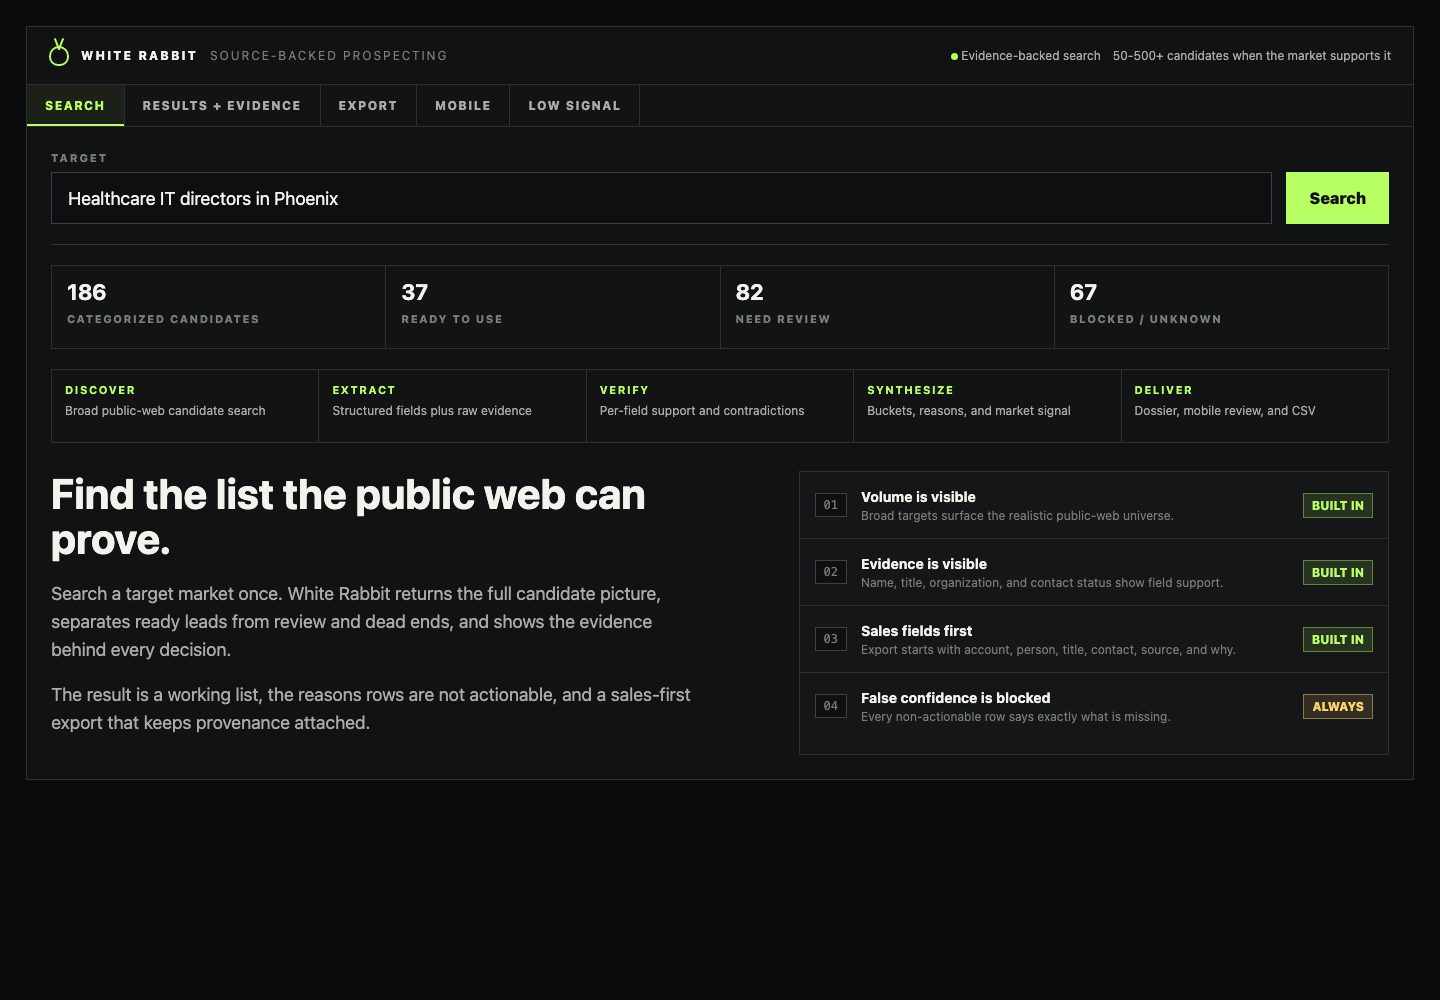
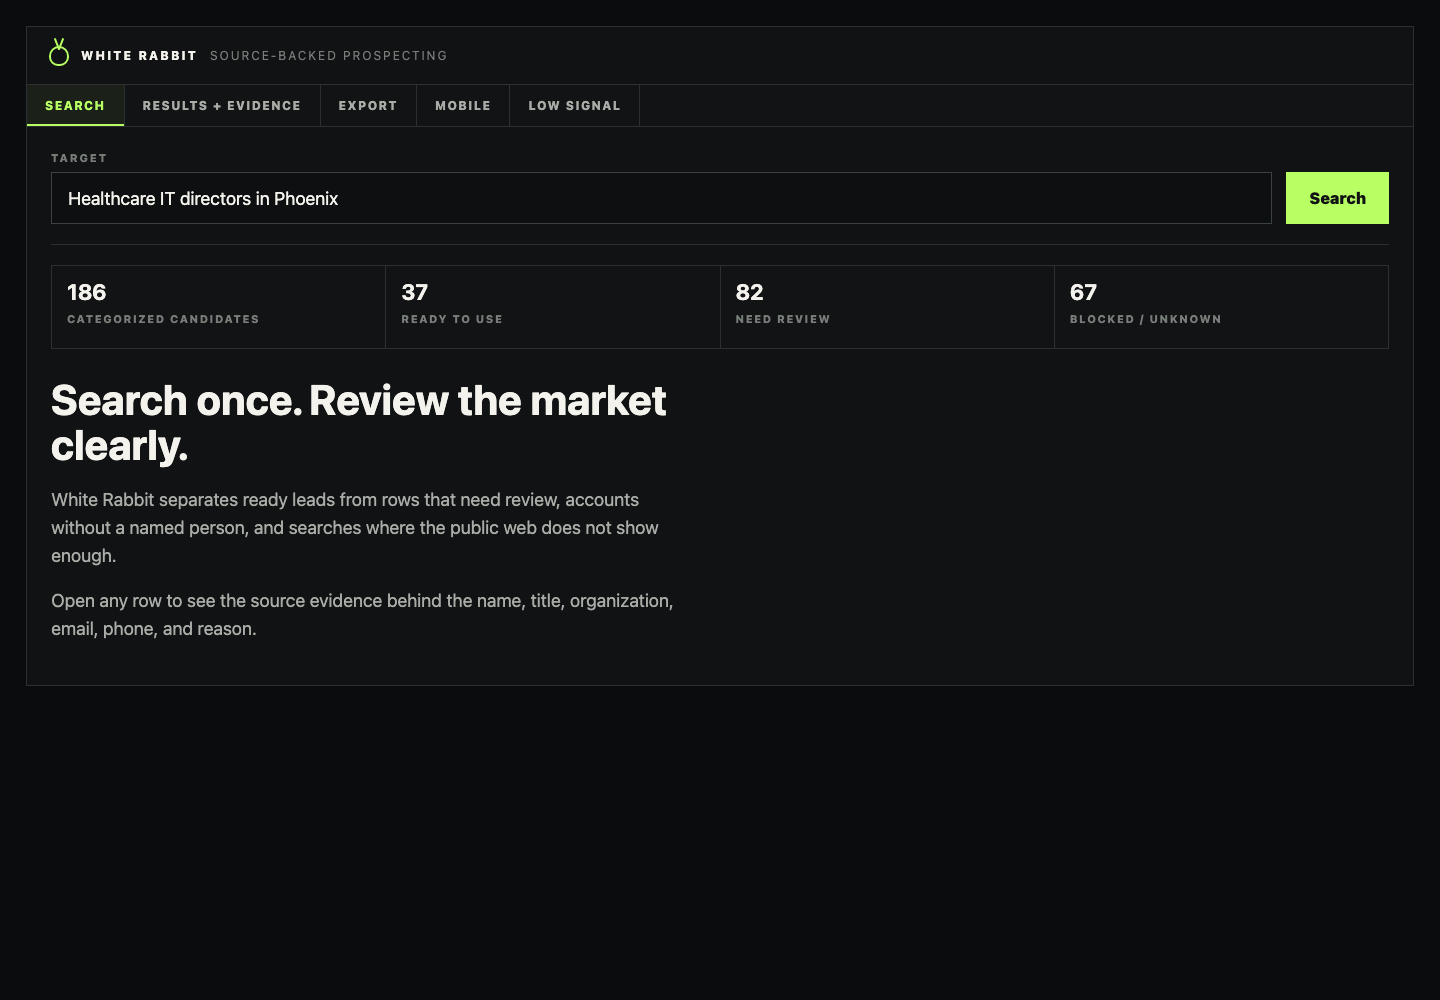
docs(mockup): tighten live demo copy

diff --git a/docs/mockups/final-product-2026-05-10/index.html b/docs/mockups/final-product-2026-05-10/index.html
@@ -965,10 +965,6 @@
             <span class="brand-title">White Rabbit</span>
             <span class="brand-subtitle">source-backed prospecting</span>
           </div>
-          <div class="top-meta">
-            <span><span class="status-dot" aria-hidden="true"></span> Evidence-backed search</span>
-            <span>50-500+ candidates when the market supports it</span>
-          </div>
         </header>
 
         <nav class="tabs" aria-label="Mockup screens">
@@ -996,48 +992,18 @@
               <div class="metric"><strong>67</strong><span>Blocked / unknown</span></div>
             </div>
 
-            <div class="pipeline-strip" aria-label="Pipeline flow">
-              <div class="pipeline-step"><strong>Discover</strong><span>Broad public-web candidate search</span></div>
-              <div class="pipeline-step"><strong>Extract</strong><span>Structured fields plus raw evidence</span></div>
-              <div class="pipeline-step"><strong>Verify</strong><span>Per-field support and contradictions</span></div>
-              <div class="pipeline-step"><strong>Synthesize</strong><span>Buckets, reasons, and market signal</span></div>
-              <div class="pipeline-step"><strong>Deliver</strong><span>Dossier, mobile review, and CSV</span></div>
-            </div>
-
             <div class="search-empty">
               <div class="copy-block">
-                <h1>Find the list the public web can prove.</h1>
+                <h1>Search once. Review the market clearly.</h1>
                 <p>
-                  Search a target market once. White Rabbit returns the full candidate picture, separates
-                  ready leads from review and dead ends, and shows the evidence behind every decision.
+                  White Rabbit separates ready leads from rows that need review, accounts without a named
+                  person, and searches where the public web does not show enough.
                 </p>
                 <p>
-                  The result is a working list, the reasons rows are not actionable, and a sales-first export
-                  that keeps provenance attached.
+                  Open any row to see the source evidence behind the name, title, organization, email, phone,
+                  and reason.
                 </p>
               </div>
-              <aside class="reference-list" aria-label="Product principles">
-                <div class="reference-row">
-                  <span class="kbd">01</span>
-                  <div><strong>Volume is visible</strong><br /><span>Broad targets surface the realistic public-web universe.</span></div>
-                  <span class="pill ready">Built in</span>
-                </div>
-                <div class="reference-row">
-                  <span class="kbd">02</span>
-                  <div><strong>Evidence is visible</strong><br /><span>Name, title, organization, and contact status show field support.</span></div>
-                  <span class="pill ready">Built in</span>
-                </div>
-                <div class="reference-row">
-                  <span class="kbd">03</span>
-                  <div><strong>Sales fields first</strong><br /><span>Export starts with account, person, title, contact, source, and why.</span></div>
-                  <span class="pill ready">Built in</span>
-                </div>
-                <div class="reference-row">
-                  <span class="kbd">04</span>
-                  <div><strong>False confidence is blocked</strong><br /><span>Every non-actionable row says exactly what is missing.</span></div>
-                  <span class="pill review">Always</span>
-                </div>
-              </aside>
             </div>
           </div>
         </section>
@@ -1554,12 +1520,12 @@
                 <div class="panel-section">
                   <p class="panel-eyebrow">Low signal</p>
                   <h2 class="panel-title">This market may be too narrow.</h2>
-                  <p class="panel-subtitle">The returned rows are still visible, but this run is below the expected broad-query coverage. Broaden the geography, role, or account type to get a fuller market picture.</p>
+                  <p class="panel-subtitle">This search found clinic websites and staff pages, but only one source-backed technology owner. The blocker is not effort; the target is too narrow for how these organizations publish leadership information.</p>
                 </div>
                 <ul class="suggestion-list">
-                  <li>Try "healthcare IT leaders in Phoenix metro" instead of boutique clinics only.</li>
-                  <li>Include adjacent titles such as technology director, systems director, and CIO.</li>
-                  <li>Keep this narrow query only if these 4 targets are intentionally the full universe.</li>
+                  <li>Recommended next search: "healthcare IT leaders in Phoenix metro hospitals clinics medical groups".</li>
+                  <li>Add titles that healthcare sites actually publish: clinical systems director, technology director, information systems director, CIO, and information security director.</li>
+                  <li>Keep "boutique clinics" only if small clinics are the required account type; otherwise include hospital systems, specialty groups, behavioral health, and community health centers.</li>
                 </ul>
               </aside>
 

diff --git a/STATUS.md b/STATUS.md
@@ -1,6 +1,6 @@
 # STATUS
 
-**Last updated:** 2026-05-10 by Codex live-demo-pipeline-mockups
+**Last updated:** 2026-05-10 by Codex mockup-copy-tightening
 **Branch:** main / rebuild/validated-leads-loop aligned
 **Current sprint:** The validated-leads rebuild is on `main` for Thomas/Lee internal use. Product remains red. Lee/Thomas operator feedback now makes low-volume broad runs a hard failure: Scout returning 3 rows and Full returning 4 rows is not useful. Matt has clarified that 10-25 was only the first escape from that failure; the reset now targets live-demo-safe high-volume transparent tiering for broad queries. Production web now has the required internal API token after the post-promotion Vercel env fix.
 
@@ -56,16 +56,16 @@ Prior accepted gates:
 **Latest handoff:**
 
 ```text
-Feature: Live-demo pipeline mockups and output contract
+Feature: Live-demo mockup copy tightening
 Branch: main -> rebuild/validated-leads-loop sync
 Status: committed_and_pushed
-What changed: Added ADR-013 for live-demo-safe copy and 50-500+ transparent tiering. Added `docs/13-pipeline-orchestrator-contract-2026.md` from Matt's CSV/XLSX pipeline artifacts, updated the orchestrator brief/output contract, and rebuilt the mockups around READY/REVIEW/ORG-ONLY/NOT FOUND, filters, evidence actions, mobile filters, and low-signal state.
+What changed: Tightened only the visible mockup copy. Removed the first-screen evidence-backed/volume tagline, pipeline-stage row, and principle list. Rewrote the low-signal guidance to diagnose the narrow-query failure and provide exact broadening moves that should improve recall.
 Tests or QA run:
  - `git diff --check`
  - `node` Playwright static render of `docs/mockups/final-product-2026-05-10/index.html`
- - `rg -n 'ADR-013|50-500|DISCOVER|EXTRACT|VERIFY|SYNTHESIZE|ORCHESTRATE|READY|REVIEW|ORG-ONLY|NOT FOUND|low-signal' docs STATUS.md`
+ - `rg -n 'Evidence-backed search|50-500\\+ candidates|Discover|Extract|Verify|Synthesize|Volume is visible|Evidence is visible|Sales fields first|False confidence|Find the list' docs/mockups/final-product-2026-05-10/index.html`
 Screenshots or report: `.gstack/qa-reports/screenshots/final-product-mockups-2026-05-10/`
-Northstar reflection: Preserves the full public-web picture plus rigorous categorization while making the demo surface understandable without internal context.
+Northstar reflection: Keeps the demo quieter while preserving source-backed categorization and making low-signal advice trust-preserving instead of generic.
 Next pointer: Matt inspection, then assign Prompt A to R00 if the mockup direction is approved.
 Open questions: none blocking R00.
 ```
@@ -266,6 +266,7 @@ Open residual risks:
 
 | Date | Agent | Summary |
 |------|-------|---------|
+| 2026-05-10 | mockup-copy-tightening (Codex) | Tightened only the final mockup copy: removed top tagline, pipeline-stage row, and principle list from the first screen; rewrote low-signal guidance into a concrete diagnosis plus exact broadening suggestions. |
 | 2026-05-10 | live-demo-pipeline-mockups (Codex) | Read Matt's CSV/XLSX pipeline artifacts, added ADR-013 and `docs/13-pipeline-orchestrator-contract-2026.md`, updated the orchestrator brief/reset docs, and rebuilt the mockups for live-demo copy, 50-500+ transparent tiering, filters, evidence actions, mobile review, and low-signal state. |
 | 2026-05-10 | high-volume-reset-contract (Codex) | Superseded the 10-25 ideal with ADR-012 high-volume transparent tiering, added `docs/Orchestrator_Agent_Implementation_Brief.md`, updated the northstar/reset plan, and revised the final product mockups to show 186 categorized candidates with high-trust/review/org-only/not-found/failed distribution. |
 | 2026-05-10 | final-product-mockups (Codex) | Added `docs/mockups/final-product-2026-05-10/index.html` and rendered screenshots so Matt can inspect the final intended operator product before kickoff. Wired the mockup into the reset plan as the R10-R13 visual contract and RG4/RG5 Prompt C comparison artifact. |
